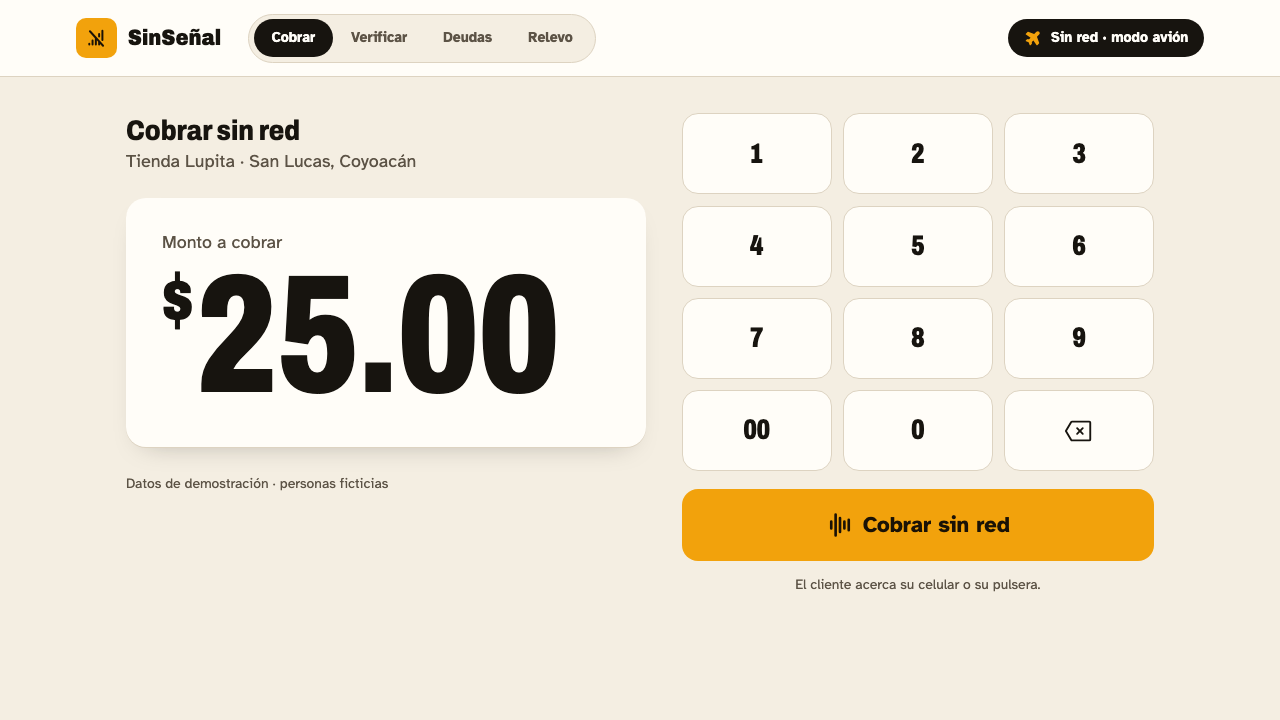
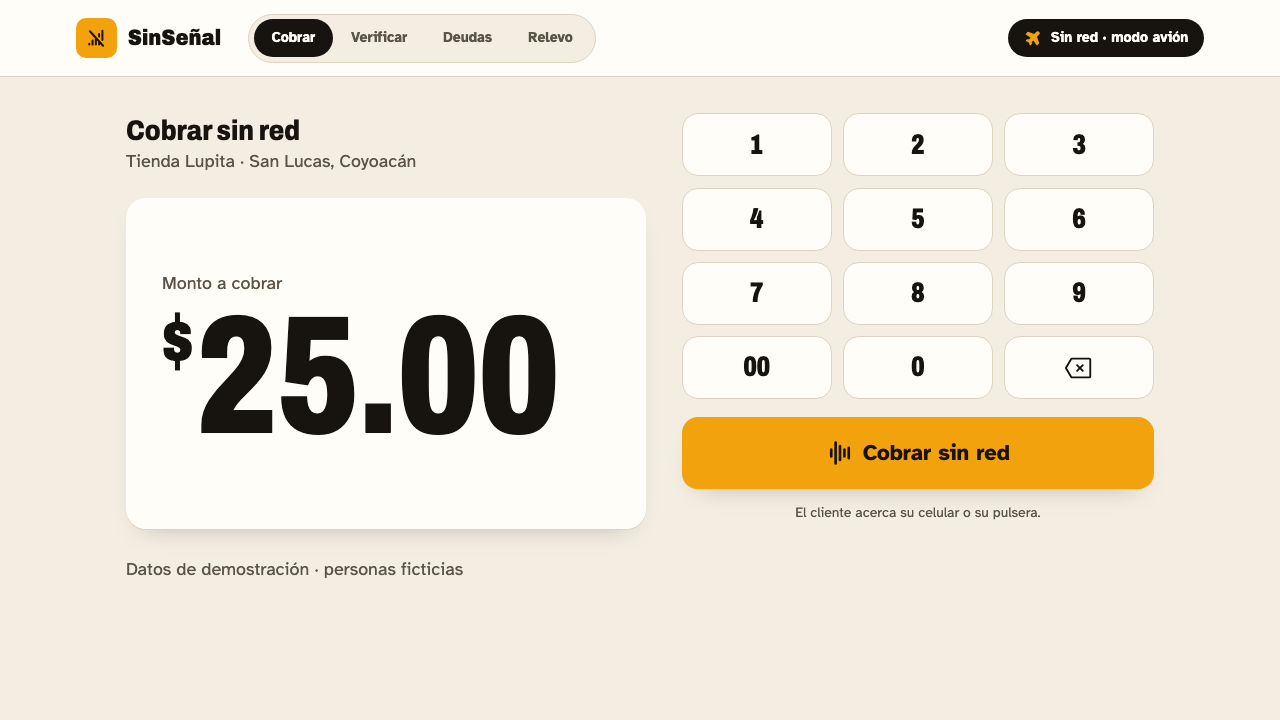
fix(HACK-008): critic P1s: hero fills frame, legend hidden on phone, trace last 4, sticky CTA
Claude-Session: https://claude.ai/code/session_015pNdRTA5UWWENqzxTD4afV

diff --git a/web/src/lib/ui/locked/LockedScreens.tsx b/web/src/lib/ui/locked/LockedScreens.tsx
@@ -78,7 +78,7 @@ function Verificar() {
       <SectionHeader>
         {fixture.merchant.name} · pagaré recibido sin red
       </SectionHeader>
-      <Surface>
+      <Surface className="flex flex-col justify-between md:min-h-[62vh]">
         <div className="absolute top-5 right-5 md:top-7 md:right-7">
           <Stamp tone="ok">VÁLIDO</Stamp>
         </div>
@@ -124,13 +124,13 @@ function Cobrar() {
                 key={k}
                 onClick={() => press(k)}
                 aria-label={k === "del" ? "Borrar" : k}
-                className="num grid h-16 place-items-center rounded-md border border-line bg-surface text-xl active:bg-muted md:h-18"
+                className="num grid h-16 place-items-center rounded-md border border-line bg-surface text-xl active:bg-muted md:h-14"
               >
                 {k === "del" ? <Backspace size={30} /> : k}
               </button>
             ))}
           </div>
-          <Button size="lg" className="mt-4 w-full" disabled={cents === 0}>
+          <Button size="lg" className="sticky bottom-24 mt-4 w-full shadow-card md:static" disabled={cents === 0}>
             <Waveform size={28} weight="bold" /> Cobrar sin red
           </Button>
           <p className="mt-3 text-center text-sm text-ink-2">
@@ -143,7 +143,7 @@ function Cobrar() {
         title="Cobrar sin red"
         context={`${fixture.merchant.name} · ${fixture.merchant.place}`}
       />
-      <Surface>
+      <Surface className="flex flex-col justify-center md:min-h-[46vh]">
         <p className="text-ink-2">Monto a cobrar</p>
         <div aria-live="polite" aria-label={formatMXN(cents)}>
           <Amount cents={cents} size="lg" />
@@ -169,7 +169,7 @@ function Deudas() {
   return (
     <PageLayout recipe="list">
       <PageHeader title="Deudas de la tienda" context={fixture.merchant.name} />
-      <div className="mb-6 grid grid-cols-2 gap-3 md:grid-cols-3">
+      <div className="mb-6 grid grid-cols-3 gap-3">
         <Stat label="Pagarés" value={debts.length} />
         <Stat label="Por cobrar" value={formatMXN(total - paid)} tone="warn" />
         <Stat label="Cobrado por CoDi" value={formatMXN(paid)} tone="ok" />
@@ -185,7 +185,7 @@ function Deudas() {
               key={d.counter + d.payer}
               tone={s.tone}
               title={`${d.payer} · #${d.counter}`}
-              detail={d.trace ? `${s.label} · rastreo ${d.trace}` : s.label}
+              detail={d.trace ? `${s.label} · rastreo …${d.trace.slice(-4)}` : s.label}
               trailing={
                 <span className="num text-xl">{formatMXN(d.amount_cents)}</span>
               }

diff --git a/web/src/lib/ui/kit.tsx b/web/src/lib/ui/kit.tsx
@@ -71,7 +71,7 @@ const toneChip: Record<Tone, string> = {
   ok: "bg-ok text-ok-ink",
   bad: "bg-bad text-bad-ink",
   warn: "bg-warn text-warn-ink",
-  neutral: "bg-bg text-ink",
+  neutral: "bg-muted text-ink",
 };
 
 export function Chip({
@@ -171,7 +171,7 @@ export function Stat({
     <div className="rounded-lg bg-surface px-5 py-4 shadow-card">
       <div className="text-sm text-ink-2">{label}</div>
       <div
-        className={`num leading-none ${size === "sm" ? "text-xl" : "text-2xl"} ${color}`}
+        className={`num leading-none ${size === "sm" ? "text-xl" : "text-xl md:text-2xl"} ${color}`}
       >
         {value}
       </div>
@@ -198,7 +198,7 @@ export function SectionHeader({
 
 export function Legend({ items }: { items: { tone: Tone; label: string }[] }) {
   return (
-    <ul className="flex flex-wrap gap-4 text-sm text-ink-2">
+    <ul className="hidden flex-wrap gap-4 text-sm text-ink-2 md:flex">
       {items.map((i) => (
         <li key={i.label} className="flex items-center gap-2">
           <StateIcon tone={i.tone} size="sm" />
@@ -247,5 +247,5 @@ export function DemoBadge({
 }: {
   children?: ReactNode;
 }) {
-  return <p className="mt-6 text-sm text-ink-2">{children}</p>;
+  return <p className="mt-6 text-base text-ink-2">{children}</p>;
 }
